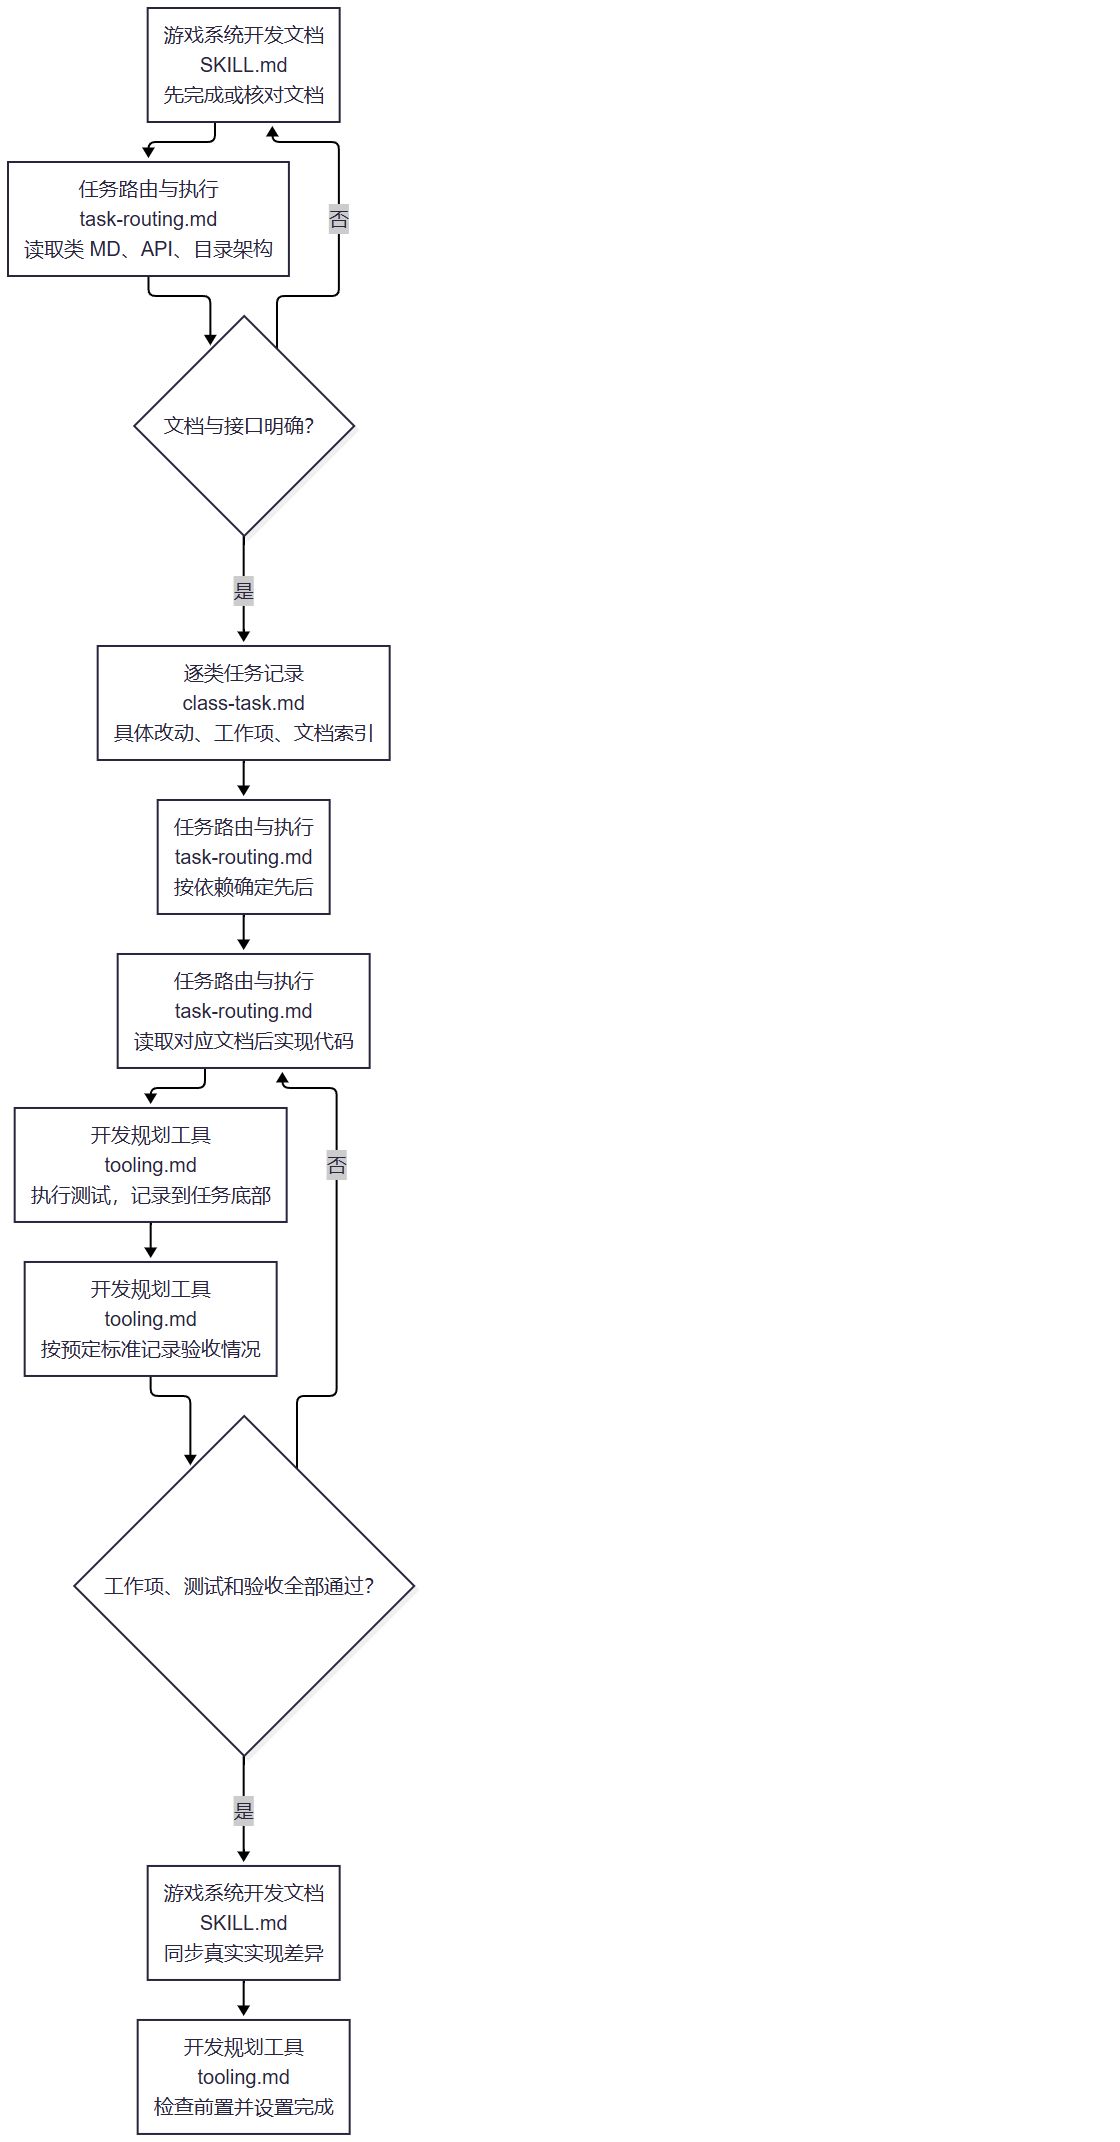
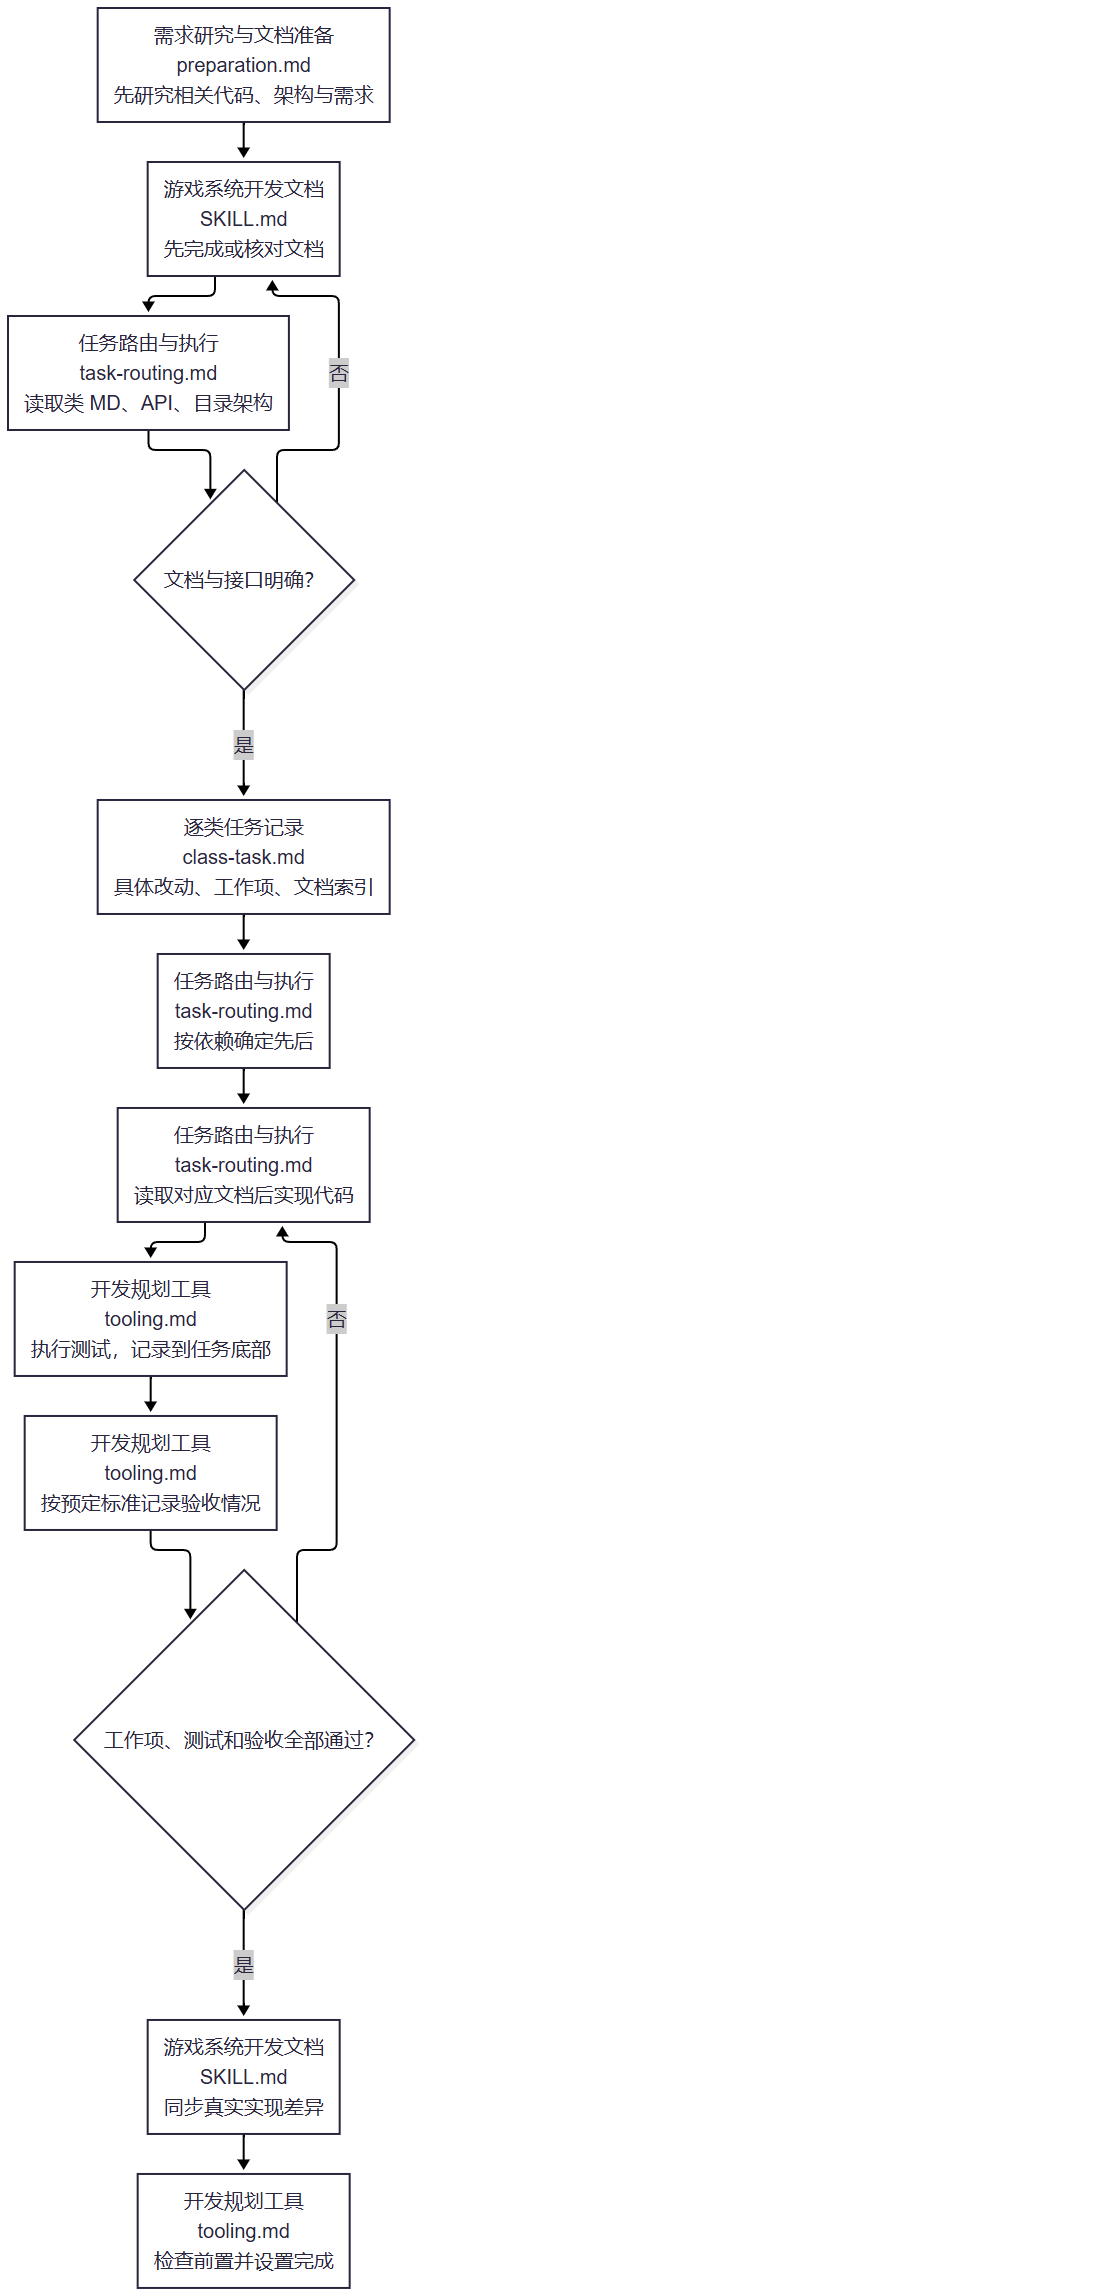
明确直接规划入口与文档独立职责
用户可直接调用规划：先研究相关代码、架构与需求，调用文档能力按需增删改并维护引用，再建立同层级同名工单驱动授权实现。文档可独立调用，只研究、生成和同步文档，不驱动实现或执行工单；拟议删除与当前实现分别记录。

更新使用说明、技能提示和可点击操作图；格式与引用校验通过，流程图10个链接、约20px字号。工具逻辑、文档格式与生产项目未改。

diff --git a/game-system-development-planning/SKILL.md b/game-system-development-planning/SKILL.md
@@ -1,20 +1,20 @@
 ---
 name: game-system-development-planning
-description: 在游戏系统文档具备后驱动代码实现；按类维护具体开发工单、文档索引、验收标准、依赖、状态及底部测试/验收记录，用 Python 辅助记录。规划不复制系统文档、架构图或 API。
+description: 可直接作为游戏开发入口，先研究相关代码与需求，调用文档技能增补同步文档，再驱动代码实现；按类维护具体开发工单、文档索引、验收标准、依赖、状态及底部测试/验收记录，用 Python 辅助记录。规划不复制系统文档、架构图或 API。
 metadata:
   short-description: 先文档后规划，逐类驱动实现与测试
   schema-version: "4"
 ---
 # 游戏系统开发规划
 
-先文档，后规划。先由 [游戏系统开发文档](../game-system-development-documentation/SKILL.md) 明确系统、接口及脚本位置；本技能读取这些成果，把它们变成按类执行的任务。文档不足时先补对应文档，不在规划里另写一套设计。已有系统的改动也先核对并更新相关文档，再安排确实需要的实现工作；纯补录文档不制造代码任务。
+可以直接调用本技能开始游戏开发，不要求用户事先手动生成文档。收到需求后先按 [需求研究与文档准备](references/workflows/preparation.md) 研究当前架构、相关代码及已有文档/API，再调用 [游戏系统开发文档](../game-system-development-documentation/SKILL.md)，根据需求新增、修改或清理文档并修复引用；文档明确后才建立同层级同类名的执行工单、安排依赖及授权实现。先文档后工单是内部顺序，不是要求用户分别调用两个技能。纯文档任务可单独调用文档技能，不制造代码任务。
 
 ## 执行流程
 
 ```mermaid
 %%{init: {"themeVariables": {"fontSize": "20px"}, "flowchart": {"wrappingWidth": 360}}}%%
 flowchart TD
-  Docs["游戏系统开发文档<br/>SKILL.md<br/>先完成或核对文档"] --> Read["任务路由与执行<br/>task-routing.md<br/>读取类 MD、API、目录架构"]
+  Research["需求研究与文档准备<br/>preparation.md<br/>先研究相关代码、架构与需求"] --> Docs["游戏系统开发文档<br/>SKILL.md<br/>先完成或核对文档"] --> Read["任务路由与执行<br/>task-routing.md<br/>读取类 MD、API、目录架构"]
   Read --> Ready{"文档与接口明确？"}
   Ready -->|否| Docs
   Ready -->|是| Task["逐类任务记录<br/>class-task.md<br/>具体改动、工作项、文档索引"]
@@ -26,6 +26,7 @@ flowchart TD
   Pass -->|否| Code
   Pass -->|是| Sync["游戏系统开发文档<br/>SKILL.md<br/>同步真实实现差异"]
   Sync --> Done["开发规划工具<br/>tooling.md<br/>检查前置并设置完成"]
+  click Research "references/workflows/preparation.md"
   click Docs "../game-system-development-documentation/SKILL.md"
   click Read "references/workflows/task-routing.md"
   click Task "references/contracts/class-task.md"
@@ -37,7 +38,7 @@ flowchart TD
   click Done "references/tooling.md"
 ```
 
-图中节点对应 [任务路由与执行](references/workflows/task-routing.md)、[逐类任务记录](references/contracts/class-task.md)、[开发规划工具](references/tooling.md)。没有执行条件则记录缺口，不把未运行的测试标成通过。
+图中节点对应 [需求研究与文档准备](references/workflows/preparation.md)、[任务路由与执行](references/workflows/task-routing.md)、[逐类任务记录](references/contracts/class-task.md)、[开发规划工具](references/tooling.md)。没有执行条件则记录缺口，不把未运行的测试标成通过。
 
 ## 开始实现的门槛
 

diff --git a/game-system-development-documentation/SKILL.md b/game-system-development-documentation/SKILL.md
@@ -1,13 +1,13 @@
 ---
 name: game-system-development-documentation
-description: 生成或同步设计态和已实现态游戏文档、目录架构与脚本位置、角色职责、调度流水线、原语言公开函数 API 及各目录 README。文档生成收敛在本技能，不排序任务 TODO。
+description: 生成或同步设计态和已实现态游戏文档、目录架构与脚本位置、角色职责、调度流水线、原语言公开函数 API 及各目录 README。可独立使用或被规划调用，根据需求增删改文档，不驱动代码实现或执行工单。
 metadata:
   short-description: 扫描现状并同步系统说明、编程指南和 API
   schema-version: "1"
 ---
 # 游戏系统开发文档
 
-个人级游戏文档生成技能，跨项目、跨语言使用。先完成文档，再由 game-system-development-planning 读取文档驱动执行；本技能也可直接处理设计、已实现补录与修改同步，保持现有文档产物规范。正式文档参照项目 SDK 的系统说明：先讲用途，再按实际使用场景给短调用示例，说明生命周期与限制；不把扫描结果和检查清单堆成正文。图中操作节点可点击对应规范，名称与文件相对应；图下保留同目标 Markdown 链接。
+个人级游戏文档生成技能，跨项目、跨语言使用。先完成文档，再由 game-system-development-planning 读取文档驱动执行；本技能可单独处理文档，也可被规划调用；根据需求及相关代码新增、修改、删除已失效的文档并同步引用，保持现有文档产物规范。仅负责文档研究、生成和同步，不驱动业务实现或执行工单。正式文档参照项目 SDK 的系统说明：先讲用途，再按实际使用场景给短调用示例，说明生命周期与限制；不把扫描结果和检查清单堆成正文。图中操作节点可点击对应规范，名称与文件相对应；图下保留同目标 Markdown 链接。
 
 ## 系统文档工具（优先执行）
 
@@ -134,3 +134,7 @@ flowchart TD
 ## 模块优先的文档目录
 
 正式内容必须按 `docs/文档/<模块>/` 划分，不再把所有系统集中到顶层职责或 API 目录。读取 [模块文档目录](references/contracts/module-layout.md)；全局 README 导航模块与类，模块 README 汇总本模块的类/角色/简短职责/API/MD。每个模块入口与目录架构同级，模块内保存职责、原语言 API 和确有需要的 UI/网络/配置专题。文档技能可独立使用；规划只读取对应模块文档。
+
+## 单独使用文档技能
+
+可直接调用本技能并给出需求/范围。先核对相关代码、已有文档/API 和当前架构，再按需求增补或调整模块文档；实际已失效的内容可删除，并同步索引、meta 文档依赖和图/API链接。拟议变更与当前实现区分状态，不提前删除仍真实存在的正式能力。完成交付文档及缺口即可，不要求再调用规划、不生成执行工单、不自动开发或记录测试验收。生成与同步继续采用本技能的 [正式文档边界](references/contracts/document-layout.md) 与 [增量同步](references/workflows/sync.md) 规范。

diff --git a/game-system-development-planning/references/workflows/preparation.md b/game-system-development-planning/references/workflows/preparation.md
@@ -1,0 +1,22 @@
+# 需求研究与文档准备
+
+## 直接调用规划
+
+用户可以只调用游戏系统开发规划。开始先读取项目规范、需求与当前相关模块的架构/源码入口、已有文档和 API，研究实际职责、调用关系、生命周期、可复用能力及需要改动的边界。限定在需求涉及的代码与消费者，不全项目扫描；接口声明足够的纯 API 查询仍遵守文档技能的查阅规则。
+
+把“已有实现”“本次拟新增/修改/删除”“未确认业务”区分清楚。已有框架已提供所需能力时，给出接口、调用契约与差距，沿用已确认复用选择；重写需要用户决定时再问，不替用户创造业务规则。没有现成实现时，用真实架构和已确认需求设计接口，不编造已实现能力。
+
+## 调用文档能力
+
+研究结论与已确认需求交给游戏系统开发文档，明确影响模块及设计态/现状态：
+
+- 没有文档：生成需要的模块入口、同级目录架构、职责、公开函数 API 和确有需求的专题。
+- 文档已有且适用：保留并核对相关部分，不为了流程重写整套资料。
+- 文档不完整或需求改变：增补、修改受影响内容；实际已失效的类、API、专题或重复资料可以删除，修复模块/类索引、meta 文档依赖、API 映射与图内跳转。
+- 尚未实现的拟议变更：写设计态资料；拟删除或替换代码不意味着当前正式 API 已消失，不能提前把正式文档改成未来事实。开发后再据实际差异同步。
+
+文档能力只读相关代码并生成/维护文档，不实现业务、不建执行工单、不排序任务、不记录测试验收状态；文档自身仍按独立 Git 管理。删除之前核对范围、实际失效依据与引用，不删除 SDK/第三方资料或不相关模块。
+
+## 再建立执行工单
+
+文档/接口及需要的设计决定明确后，读取对应类 MD，建立与文档同相对层级、同文件名的工单，填写具体工作与验收标准，再按依赖执行。用户只要规划时交付完整工单，不自动开展生产实现。已授权开发时才实现、测试、验收和同步文档；每一步记录保留真实状态与证据。

diff --git a/game-system-development-planning/references/workflows/task-routing.md b/game-system-development-planning/references/workflows/task-routing.md
@@ -2,6 +2,8 @@
 
 ## 文档是前置
 
+用户可直接使用规划技能；先按 [需求研究与文档准备](preparation.md) 研究相关代码与需求，再调用文档技能增补、修改或清理文档，随后进入本页执行流程。
+
 先读取 `docs/文档/README.md`，再读 `<模块>/README.md`、与模块入口同级的 `目录架构.md`、本模块类 MD 和它直接映射的原语言 API；已有有效资料足够就不扫描源码。设计态资料必须明确拟定接口与路径，不当成现成实现。文档缺失/冲突时调用文档技能补齐；规划不承载这些文档内容。现有设计态文档的实际位置可沿入口读取，执行任务另建任务目录，不能覆盖旧设计资料。
 
 用户已认可的文档风格、角色、流水线、客户端/服务端/shared、网络/UI/配置规范继续由文档技能维护。本技能记录“实现哪一项”，不重新定义“系统是什么”。

diff --git a/README.md b/README.md
@@ -15,7 +15,7 @@
 
 ## 使用
 
-先调用“游戏系统开发文档”，再调用“游戏系统开发规划”驱动实现；配置需求由“游戏 Excel 配置表”协作处理；日志排查调用“日志阅读技能”。
+可以直接调用“游戏系统开发规划”：先研究代码与需求，内部调用文档能力，再建立工单并驱动授权实现；也可单独调用“游戏系统开发文档”，只做文档增删改；配置需求由“游戏 Excel 配置表”协作处理；日志排查调用“日志阅读技能”。
 
 - 规划查阅 API 时，已有框架能力须先给出准确接口、调用/生命周期细节与差距，再询问复用还是重写；已明确选择沿用。
 - 开发任务入口：`docs/规划/<任务>/README.md`，每个类独立任务 MD，只引用文档，不复制设计，docs 由独立 Git 仓库维护。
